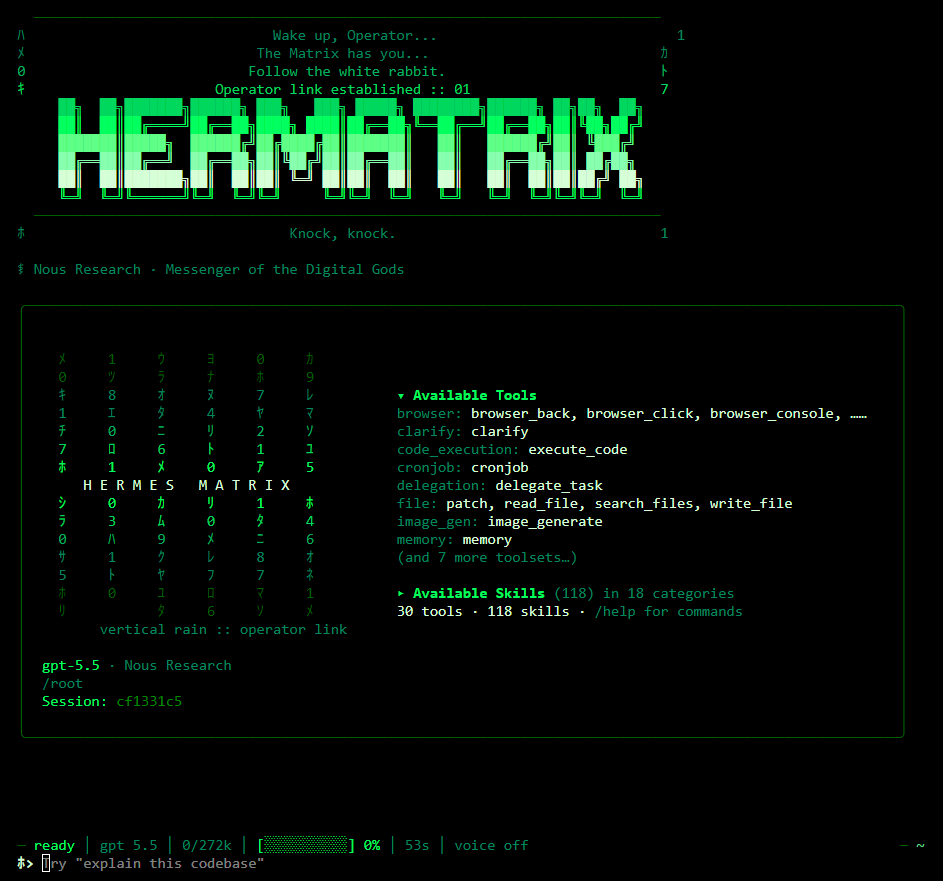
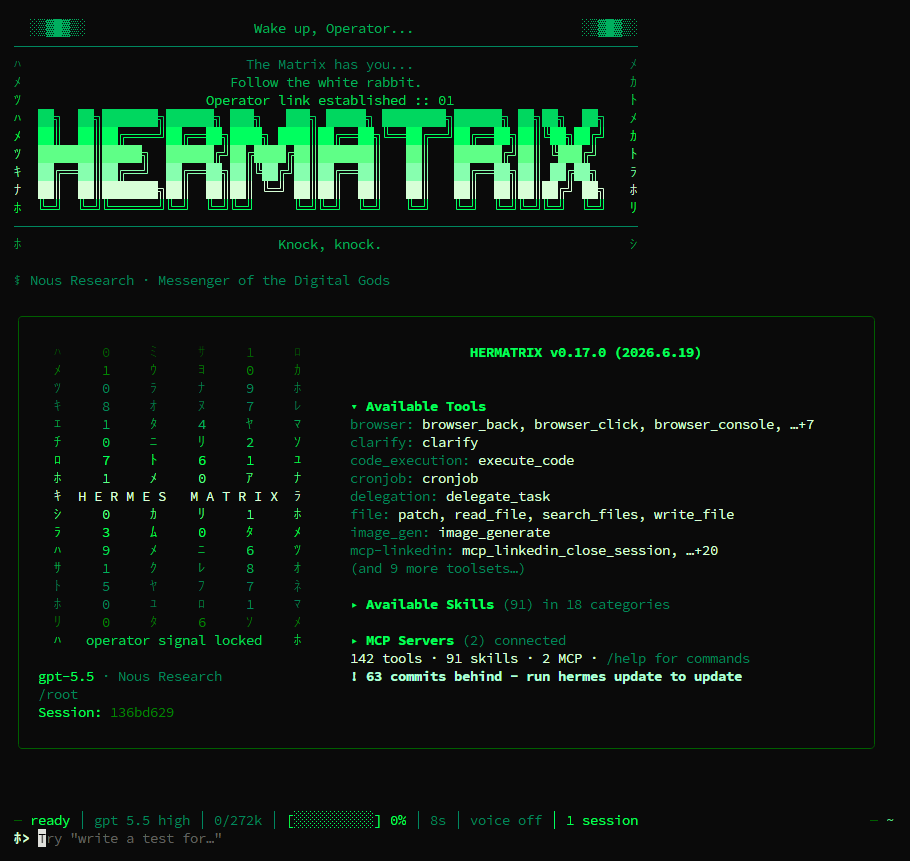
feat: release HERMATRIX v1.1.0

diff --git a/README.md b/README.md
@@ -6,21 +6,21 @@ Premium Matrix-inspired skin for Hermes Agent — deep black cyberpunk aesthetic
 
 ## Current version
 
-**v1.0.0** — first formal versioned release, with native Windows PowerShell install support and fixed Windows Hermes skin paths.
+**v1.1.0** — polished Matrix rain/banner release with aligned kana rails, cleaner HERMATRIX geometry, refined operator thinking messages, and safer cross-platform personalization.
 
 - Release notes: [CHANGELOG.md](CHANGELOG.md)
 - GitHub releases: <https://github.com/lipebez/hermes-matrix-skin/releases>
 
 ## Features
 
-- **Cinematic banner** — ASCII art HERMATRIX with iconic Matrix dialogue (`Wake up, Operator...`)
-- **Digital rain hero** — vertical katakana/number rain (`ﾊ ﾒ 0 ﾄ ｶ ﾂ ﾗ ﾅ`) with decorative accents throughout the banner
+- **Cinematic banner** — ASCII art HERMATRIX with a centered `Wake up, Operator...` greeting, aligned kana side rails, and full-width divider rules
+- **Digital rain hero** — katakana/number rain with kana edge rails, brighter low-end greens, framed `H E R M E S   M A T R I X`, and `operator signal locked` caption
 - **Binary spinner** — animated faces: `0`, `1`, `01`, `10`, `▓`, `▒`, `░`
-- **14 thinking verbs** — random Matrix-themed messages while the agent thinks:
-  `following the white rabbit` · `dodging bullets` · `consulting the oracle` · `jacking in` · `choosing the red pill` · `defying gravity` · `seeing through the code` · and more
+- **14 thinking verbs** — immersive operator/construct messages while the agent thinks:
+  `following the white rabbit` · `tracing the signal` · `syncing operator uplink` · `rewriting the construct` · `opening hidden exits` · `stabilizing residual self-image` · and more
 - **Custom prompt** — `ﾎ> ` with `⣿ OPERATOR` response label
-- **Deep green palette** — full gradient from `#001806` to `#D8FFE3` on pure black
-- **Personalize** — replace "Operator" with your name via one command
+- **Deep green palette** — readable Matrix-green gradient from `#003B12` to `#D8FFE3` on pure black
+- **Personalize** — replace "Operator" with your name via one command; the wake-up row is rebuilt to stay aligned for short and longer names
 
 ## Install
 
@@ -78,7 +78,7 @@ Or pass your name directly:
 & ([scriptblock]::Create((irm https://raw.githubusercontent.com/lipebez/hermes-matrix-skin/main/customize.ps1))) -Name "Neo"
 ```
 
-This updates the banner greeting (`Wake up, Neo...`) and the response label (`⣿ NEO`). A backup of the original file is created automatically.
+This updates the banner greeting (`Wake up, Neo...`) and the response label (`⣿ NEO`). The wake-up row is rebuilt to preserve the 78-column banner layout, and a backup of the original file is created automatically.
 
 ## Manual install
 
@@ -120,7 +120,7 @@ customize.ps1              # PowerShell personalizer
 - Technical skin name: `matrix`
 - Visual identity: `HERMATRIX`
 - Public wake-up line: `Wake up, Operator...`
-- Versioning: public releases use semantic version tags such as `v1.0.0`.
+- Versioning: public releases use semantic version tags such as `v1.1.0`.
 
 ## License
 

diff --git a/RELEASE_NOTES_v1.1.0.md b/RELEASE_NOTES_v1.1.0.md
@@ -1,0 +1,44 @@
+## HERMATRIX v1.1.0
+
+A polished visual release for the HERMATRIX skin, focused on making the Matrix-inspired boot/banner experience cleaner, more cinematic, and safer to personalize across platforms.
+
+### Visual polish
+
+- Rebuilt the main banner around a centered `Wake up, Operator...` greeting.
+- Removed the old `THE SOURCE IS ONLINE` row and made the greeting the primary hero line.
+- Added aligned kana side rails around the large HERMATRIX ASCII logo.
+- Removed stray edge digits from the banner and rain blocks.
+- Changed divider rows to true full-width visual rules.
+- Balanced left/right spacing around the HERMATRIX ASCII art.
+- Brightened the low-end green rain colors so the first rain rows are visible without losing the deep Matrix feel.
+- Preserved and framed the `H E R M E S   M A T R I X` identity line inside the rain block.
+- Replaced the technical `vertical rain :: operator link` caption with the in-world `operator signal locked` caption.
+
+### Interaction polish
+
+- Refined the thinking messages with more immersive operator/construct language:
+  - `tracing the signal`
+  - `syncing operator uplink`
+  - `rewriting the construct`
+  - `opening hidden exits`
+  - `listening for the oracle`
+  - `opening the backdoor`
+  - `stabilizing residual self-image`
+- Updated the help header to `⣿ Operator Protocols`.
+
+### Personalization / Windows
+
+- Hardened `customize.sh` so personalized names rebuild the whole `Wake up, <name>...` row and keep the 78-column banner width stable.
+- Hardened `customize.ps1` with equivalent fixed-width wake-line rebuilding logic for Windows PowerShell.
+- Kept support for `HERMES_HOME` and native Windows `%LOCALAPPDATA%\hermes` paths from v1.0.0.
+
+### Verification
+
+Validated with ad-hoc Hermes skin checks:
+
+- `skins/matrix.yaml` parses as YAML.
+- The skin loads through `hermes_cli.skin_engine.load_skin("matrix")`.
+- Main banner rows stay at 78 visible columns.
+- Rain hero rows stay at 33 visible columns.
+- `customize.sh` was executed in isolated temporary `HERMES_HOME` directories with short, medium, long, and shell-sensitive names.
+- `customize.ps1` fixed-width recentering contract was statically checked; runtime PowerShell smoke test still depends on a Windows/PowerShell environment.

diff --git a/CHANGELOG.md b/CHANGELOG.md
@@ -4,6 +4,35 @@ All notable changes to HERMATRIX are documented here.
 
 This project follows semantic versioning (`vMAJOR.MINOR.PATCH`) for public GitHub releases.
 
+## [v1.1.0] - 2026-06-26
+
+### Changed
+
+- Promoted the polished HERMATRIX banner layout with a centered `Wake up, Operator...` top row.
+- Removed the old `THE SOURCE IS ONLINE` row from the public skin.
+- Added aligned kana rails around the large HERMATRIX ASCII banner.
+- Rebalanced the large ASCII logo spacing so the left and right sides breathe more evenly.
+- Changed divider rows to true full-width visual rules.
+- Brightened the low-end digital-rain greens for better visibility.
+- Cleaned the rain hero by moving numbers away from the edges and keeping kana on the borders.
+- Framed the `H E R M E S   M A T R I X` hero identity line with single kana edge markers.
+- Replaced `vertical rain :: operator link` with `operator signal locked`.
+- Refined the 14 thinking verbs with more immersive operator/construct language.
+- Updated the help header to `⣿ Operator Protocols`.
+
+### Fixed
+
+- Hardened `customize.sh` so personalized names rebuild the entire `Wake up, <name>...` row and preserve the 78-column banner width.
+- Added equivalent fixed-width wake-line rebuilding logic to `customize.ps1` for Windows PowerShell.
+- Kept response-label personalization and backup creation intact while improving layout stability.
+
+### Verification
+
+- Verified the canonical `matrix` skin via YAML parse and `hermes_cli.skin_engine.load_skin("matrix")`.
+- Verified banner geometry: `banner_logo` rows at 78 visible columns and `banner_hero` rows at 33 visible columns.
+- Verified `customize.sh` in isolated temporary `HERMES_HOME` directories with `Neo`, `Filipe Bezerra`, `Alexandre-Morpheus`, and `A/B & C`.
+- Verified `customize.ps1` recentering contract statically; runtime PowerShell smoke test still requires a Windows/PowerShell environment.
+
 ## [v1.0.0] - 2026-06-26
 
 ### Added
@@ -29,3 +58,4 @@ This project follows semantic versioning (`vMAJOR.MINOR.PATCH`) for public GitHu
 - Activate after install with `/skin matrix`.
 
 [v1.0.0]: https://github.com/lipebez/hermes-matrix-skin/releases/tag/v1.0.0
+[v1.1.0]: https://github.com/lipebez/hermes-matrix-skin/releases/tag/v1.1.0

diff --git a/DISCORD_ANNOUNCEMENT_v1.1.0.md b/DISCORD_ANNOUNCEMENT_v1.1.0.md
@@ -1,0 +1,43 @@
+Hey everyone — sharing a new update for **HERMATRIX**, a premium Matrix-inspired skin for Hermes Agent.
+
+Repo: https://github.com/lipebez/hermes-matrix-skin
+
+## What's new in v1.1.0
+
+This update is mostly visual polish + safer personalization:
+
+- Reworked the main banner around a centered `Wake up, Operator...` line.
+- Added aligned kana side rails to the big HERMATRIX ASCII logo.
+- Removed stray edge digits and cleaned up the Matrix rain block.
+- Made divider rows full-width and balanced the logo spacing.
+- Brightened the darker green rain rows so the banner is more readable.
+- Preserved and framed the `H E R M E S   M A T R I X` identity line.
+- Replaced the old `vertical rain :: operator link` caption with `operator signal locked`.
+- Refined the thinking messages with more operator/construct-style phrases like `tracing the signal`, `syncing operator uplink`, and `rewriting the construct`.
+- Updated the help header to `⣿ Operator Protocols`.
+
+## Windows / personalization improvements
+
+The personalizer scripts are also safer now:
+
+- `customize.sh` rebuilds the full wake-up row so names like `Filipe Bezerra` or `Alexandre-Morpheus` stay visually centered.
+- `customize.ps1` has equivalent fixed-width logic for Windows PowerShell.
+- Native Windows install continues to target `%LOCALAPPDATA%\hermes`, matching where Hermes reads user skins.
+
+Install:
+
+```bash
+curl -fsSL https://raw.githubusercontent.com/lipebez/hermes-matrix-skin/main/install.sh | bash
+```
+
+Windows PowerShell:
+
+```powershell
+irm https://raw.githubusercontent.com/lipebez/hermes-matrix-skin/main/install.ps1 | iex
+```
+
+Then:
+
+```text
+/skin matrix
+```
